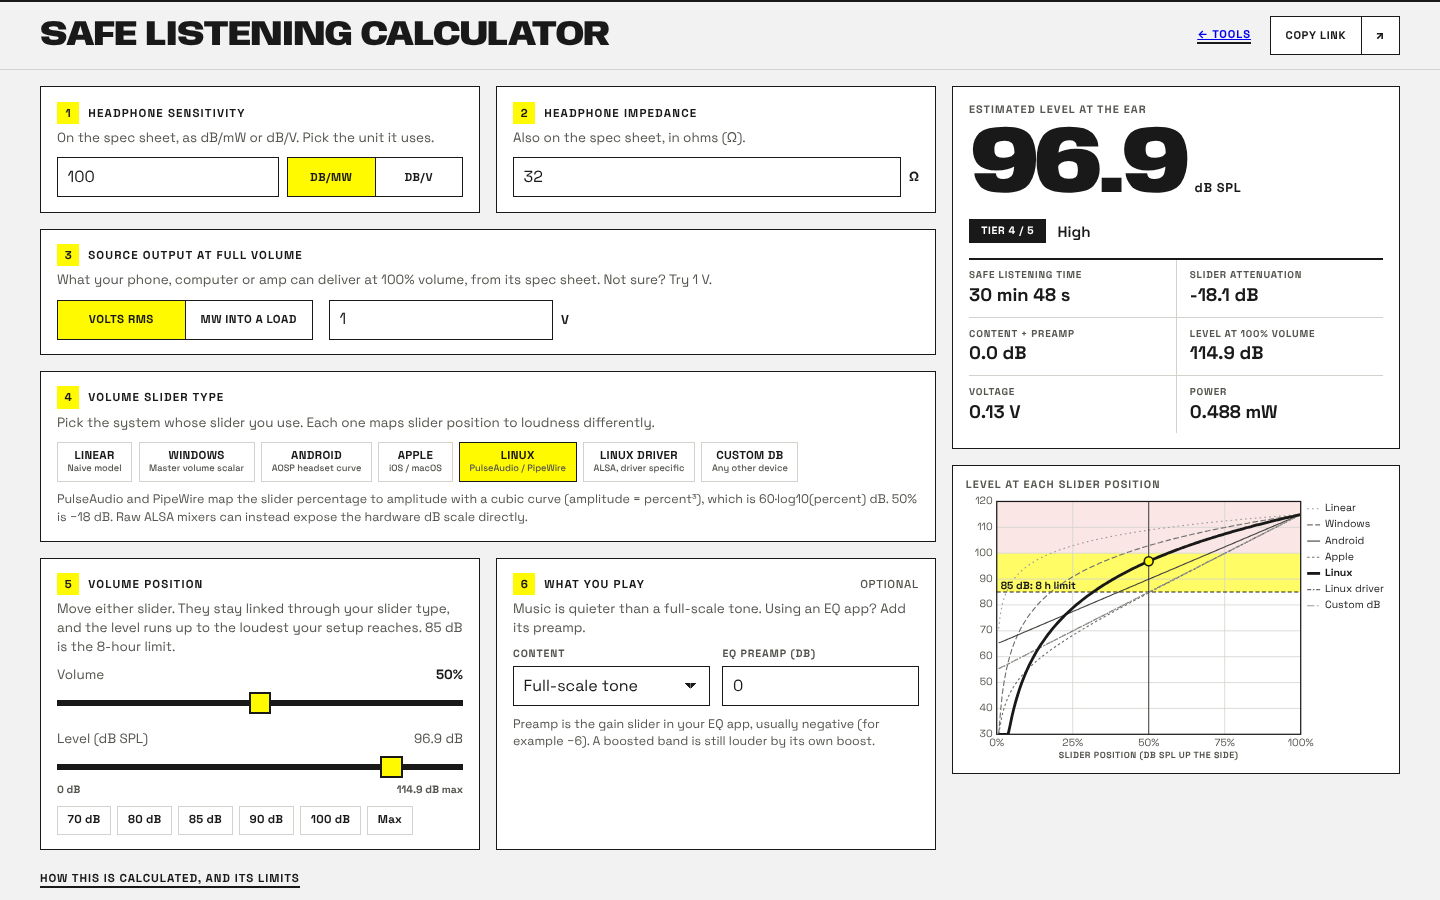
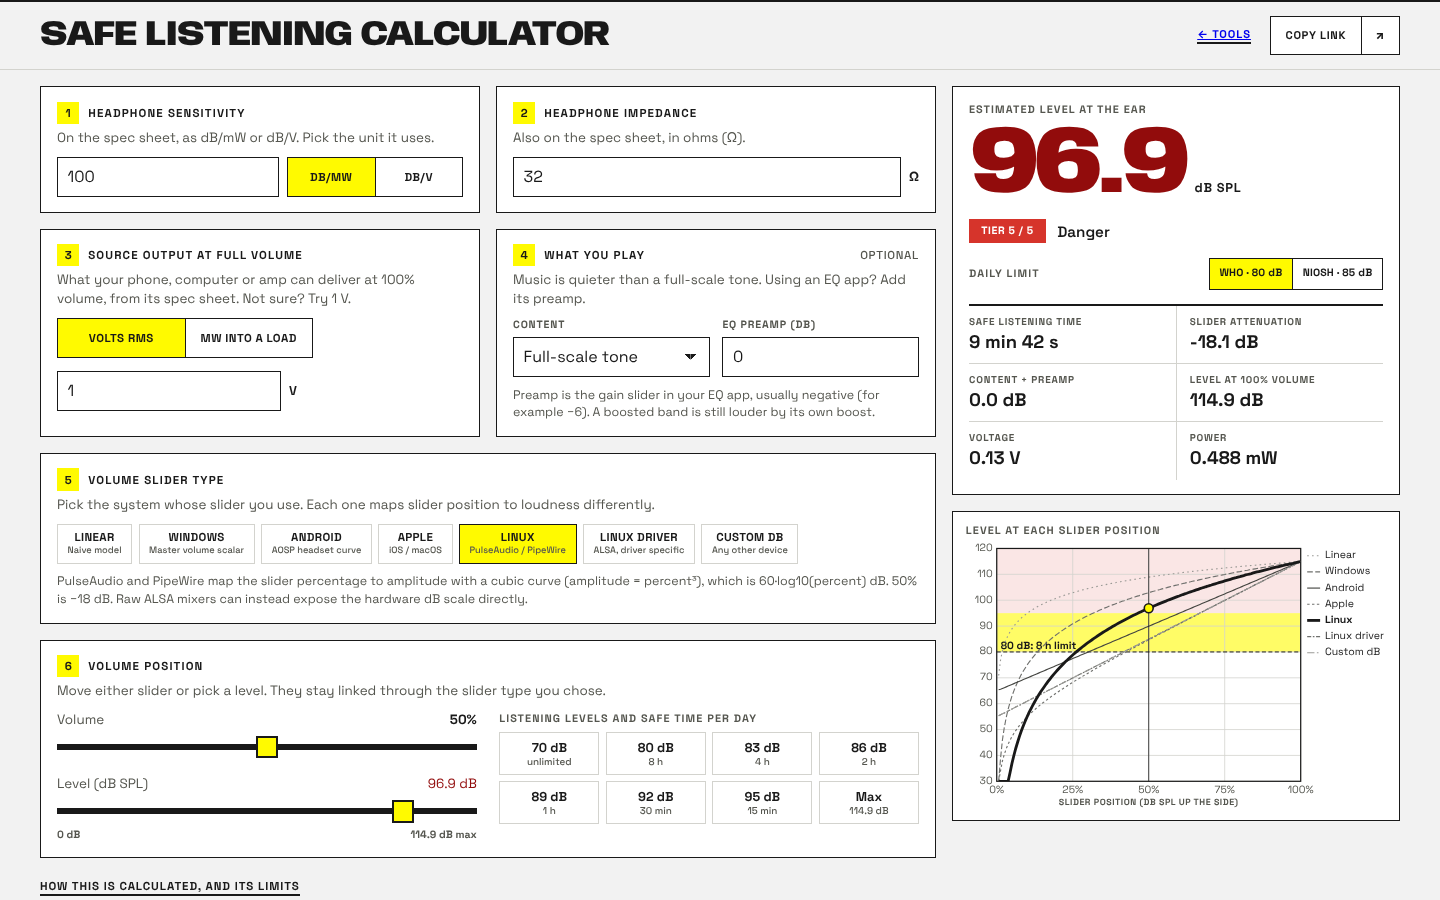
Sync Safe Listening Calculator: daily limits, level presets, risk colour

diff --git a/public/tools/safe-listening/app.js b/public/tools/safe-listening/app.js
@@ -7,7 +7,7 @@
 
   var state = {
     sens: 100, unit: 'mw', z: 32, srcMode: 'v', vout: 1, pmw: 30, load: 32,
-    curve: 'linux', pos: 0.5, range: 60, offset: 0, preamp: 0
+    curve: 'linux', pos: 0.5, range: 60, offset: 0, preamp: 0, std: 'who'
   };
 
   /* Max RMS voltage at 100% volume, from whichever form the spec sheet used. */
@@ -46,17 +46,19 @@
     if ((s = num('r', 10, 120)) !== null) state.range = s;
     if ((s = num('o', -30, 0)) !== null) state.offset = s;
     if ((s = num('pa', -30, 20)) !== null) state.preamp = s;
+    if (SA.STANDARDS[p.get('std')]) state.std = p.get('std');
   }
   function writeHash() {
     var p = new URLSearchParams({
       s: state.sens, u: state.unit, z: state.z, vm: state.vout, sm: state.srcMode, pm: state.pmw, ld: state.load,
-      c: state.curve, p: state.pos.toFixed(3), r: state.range, o: state.offset, pa: state.preamp
+      c: state.curve, p: state.pos.toFixed(3), r: state.range, o: state.offset, pa: state.preamp, std: state.std
     });
     try { history.replaceState(null, '', '#' + p.toString()); } catch (e) { /* ignore */ }
   }
 
   /* ---------- Formatting ---------- */
   function fmtTime(sec) {
+    if (sec === Infinity) return 'Unlimited';
     if (!isFinite(sec)) return '—';
     if (sec > 86400) return 'Over 24 h';
     if (sec < 10) return sec.toFixed(1) + ' s';
@@ -70,6 +72,18 @@
     if (mm === 60) { h += 1; mm = 0; }
     return h + ' h' + (mm ? ' ' + mm + ' min' : '');
   }
+  function fmtShort(sec) {
+    if (sec === Infinity) return 'unlimited';
+    if (sec >= 3600) return Math.round(sec / 360) / 10 + ' h';
+    if (sec >= 60) return Math.round(sec / 60) + ' min';
+    return Math.round(sec) + ' s';
+  }
+  /* Green when safe all day, through amber, to red at 15 dB over the daily limit. */
+  function levelColor(spl) {
+    if (!isFinite(spl)) return '';
+    return 'hsl(' + Math.round(135 * (1 - SA.risk(spl, state.std))) + ', 85%, 31%)';
+  }
+  var PRESETS = { who: [70, 80, 83, 86, 89, 92, 95], niosh: [70, 85, 88, 91, 94, 97, 100] };
   var fmt1 = function (x) { return isFinite(x) ? x.toFixed(1) : '—'; };
 
   function currentCurve() { return SA.CURVES[state.curve]; }
@@ -123,8 +137,9 @@
     var clip = el('clipPath', { id: 'plot-clip' }, svg);
     el('rect', { x: L, y: T, width: pw, height: ph }, clip);
 
-    if (yMax > 100) el('rect', { x: L, y: y(yMax), width: pw, height: y(100) - y(yMax), fill: '#d6342b', opacity: .12 }, svg);
-    if (yMax > 85) el('rect', { x: L, y: y(Math.min(100, yMax)), width: pw, height: y(85) - y(Math.min(100, yMax)), fill: '#fffa00', opacity: .6 }, svg);
+    var ref = SA.standardOf(state.std).ref, hi = ref + 15;
+    if (yMax > hi) el('rect', { x: L, y: y(yMax), width: pw, height: y(hi) - y(yMax), fill: '#d6342b', opacity: .12 }, svg);
+    if (yMax > ref) el('rect', { x: L, y: y(Math.min(hi, yMax)), width: pw, height: y(ref) - y(Math.min(hi, yMax)), fill: '#fffa00', opacity: .6 }, svg);
 
     for (var g = Math.ceil(yMin / 10) * 10; g <= yMax; g += 10) {
       el('line', { x1: L, x2: L + pw, y1: y(g), y2: y(g), class: 'grid' }, svg);
@@ -135,8 +150,8 @@
       text(svg, x(q / 100), T + ph + 15, q + '%', { 'text-anchor': 'middle', class: 'tick' });
     }
     el('rect', { x: L, y: T, width: pw, height: ph, fill: 'none', stroke: '#191919', 'stroke-width': 1.5 }, svg);
-    el('line', { x1: L, x2: L + pw, y1: y(85), y2: y(85), stroke: '#191919', 'stroke-width': 1.2, 'stroke-dasharray': '5 3' }, svg);
-    text(svg, L + 5, y(85) - 4, '85 dB: 8 h limit', { 'font-weight': 700 });
+    el('line', { x1: L, x2: L + pw, y1: y(ref), y2: y(ref), stroke: '#191919', 'stroke-width': 1.2, 'stroke-dasharray': '5 3' }, svg);
+    text(svg, L + 5, y(ref) - 4, ref + ' dB: 8 h limit', { 'font-weight': 700 });
     text(svg, L + pw / 2, H - 5, 'Slider position (dB SPL up the side)', { 'text-anchor': 'middle', class: 'axis-title' });
 
     var group = el('g', { 'clip-path': 'url(#plot-clip)', fill: 'none' }, svg);
@@ -201,9 +216,21 @@
     splSlider.value = isFinite(r.spl) ? Math.min(Math.max(r.spl, 0), top) : 0;
     $('spl-out').textContent = isFinite(r.spl) ? r.spl.toFixed(1) + ' dB' : 'Muted';
     $('spl-max-label').textContent = top.toFixed(1) + ' dB max';
-    Array.prototype.forEach.call(document.querySelectorAll('[data-spl]'), function (b) {
-      b.disabled = b.dataset.spl !== 'max' && parseFloat(b.dataset.spl) > top;
+    var presets = $('level-presets');
+    presets.textContent = '';
+    PRESETS[state.std].concat('max').forEach(function (level) {
+      var value = level === 'max' ? top : level;
+      var btn = document.createElement('button');
+      btn.type = 'button';
+      btn.dataset.spl = level;
+      var secs = SA.safeSeconds(value, state.std);
+      btn.innerHTML = '<b>' + (level === 'max' ? 'Max' : level + ' dB') + '</b><small>' +
+        (level === 'max' ? top.toFixed(1) + ' dB' : fmtShort(secs)) + '</small>';
+      btn.disabled = level !== 'max' && level > top;
+      if (isFinite(r.spl) && Math.abs(r.spl - value) < 0.3) btn.classList.add('is-active');
+      presets.appendChild(btn);
     });
+    setPressed(document.querySelectorAll('[data-std]'), function (b) { return b.dataset.std === state.std; });
     $('slider-out').textContent = Math.round(state.pos * 100) + '%' + (curve.steps ? ' (step ' + Math.round(state.pos * max) + ' of ' + max + ')' : '');
 
     $('range-field').hidden = !curve.hasRange;
@@ -219,13 +246,15 @@
     setPressed(document.querySelectorAll('[data-unit]'), function (b) { return b.dataset.unit === state.unit; });
     setPressed(document.querySelectorAll('[data-srcmode]'), function (b) { return b.dataset.srcmode === state.srcMode; });
 
-    var t = SA.tier(r.spl);
+    var t = SA.tier(r.spl, state.std);
     $('spl').textContent = isFinite(r.spl) ? r.spl.toFixed(1) : '—';
     var chip = $('tier-chip');
     chip.className = 'chip tier-' + t.n;
     chip.textContent = t.n ? 'Tier ' + t.n + ' / 5' : 'Muted';
     $('tier-text').textContent = t.name;
-    $('safe-time').textContent = isFinite(r.spl) ? fmtTime(SA.safeSeconds(r.spl)) : 'Unlimited';
+    $('safe-time').textContent = isFinite(r.spl) ? fmtTime(SA.safeSeconds(r.spl, state.std)) : 'Unlimited';
+    $('spl').style.color = levelColor(r.spl);
+    $('spl-out').style.color = levelColor(r.spl);
     $('att').textContent = isFinite(r.attenuation) ? r.attenuation.toFixed(1) + ' dB' : 'Muted';
     var adj = state.offset + state.preamp;
     $('adj').textContent = (adj > 0 ? '+' : adj < 0 ? '−' : '') + Math.abs(adj).toFixed(1) + ' dB';
@@ -276,6 +305,8 @@
       render();
     } else if (b.dataset.srcmode && b.dataset.srcmode !== state.srcMode) {
       state.srcMode = b.dataset.srcmode; render();
+    } else if (b.dataset.std) {
+      state.std = b.dataset.std; render();
     } else if (b.dataset.spl) {
       setPosFromSpl(b.dataset.spl === 'max' ? calc(1).spl : parseFloat(b.dataset.spl));
       render();

diff --git a/public/tools/safe-listening/index.html b/public/tools/safe-listening/index.html
@@ -34,7 +34,6 @@
           </div>
         </div>
       </section>
-
       <section class="card">
         <h2><i>2</i> Headphone impedance</h2>
         <p class="help">Also on the spec sheet, in ohms (Ω).</p>
@@ -43,8 +42,7 @@
           <span class="unit">Ω</span>
         </div>
       </section>
-
-      <section class="card span-2">
+      <section class="card">
         <h2><i>3</i> Source output at full volume</h2>
         <p class="help">What your phone, computer or amp can deliver at 100% volume, from its spec sheet. Not sure? Try 1 V.</p>
         <div class="row wrap">
@@ -65,38 +63,8 @@
         </div>
         <p class="note" id="derived-v"></p>
       </section>
-
-      <section class="card span-2">
-        <h2><i>4</i> Volume slider type</h2>
-        <p class="help">Pick the system whose slider you use. Each one maps slider position to loudness differently.</p>
-        <div class="filter" id="curve-buttons" role="group" aria-label="Volume slider type"></div>
-        <div class="mt" id="range-field" hidden>
-          <label class="inline">dB range below max <input id="range" type="number" inputmode="decimal" step="1" min="10" max="120" value="60"></label>
-          <p class="note" id="range-help"></p>
-        </div>
-        <p class="note curve-note" id="curve-note"></p>
-      </section>
-
       <section class="card">
-        <h2><i>5</i> Volume position</h2>
-        <p class="help">Move either slider. They stay linked through your slider type, and the level runs up to the loudest your setup reaches. 85 dB is the 8-hour limit.</p>
-        <label for="slider" class="slider-head"><span>Volume</span><output id="slider-out" for="slider">50%</output></label>
-        <input id="slider" type="range" min="0" max="100" step="1" value="50">
-        <label for="spl-slider" class="slider-head second"><span>Level (dB SPL)</span><output id="spl-out" for="spl-slider">96.9 dB</output></label>
-        <input id="spl-slider" type="range" min="0" max="114.9" step="any" value="96.9">
-        <div class="slider-ends" aria-hidden="true"><span>0 dB</span><span id="spl-max-label">max</span></div>
-        <div class="quick" role="group" aria-label="Level presets">
-          <button type="button" data-spl="70">70 dB</button>
-          <button type="button" data-spl="80">80 dB</button>
-          <button type="button" data-spl="85">85 dB</button>
-          <button type="button" data-spl="90">90 dB</button>
-          <button type="button" data-spl="100">100 dB</button>
-          <button type="button" data-spl="max">Max</button>
-        </div>
-      </section>
-
-      <section class="card">
-        <h2><i>6</i> What you play <em>optional</em></h2>
+        <h2><i>4</i> What you play <em>optional</em></h2>
         <p class="help">Music is quieter than a full-scale tone. Using an EQ app? Add its preamp.</p>
         <div class="row two">
           <label class="field">
@@ -115,6 +83,33 @@
         </div>
         <p class="note">Preamp is the gain slider in your EQ app, usually negative (for example −6). A boosted band is still louder by its own boost.</p>
       </section>
+      <section class="card span-2">
+        <h2><i>5</i> Volume slider type</h2>
+        <p class="help">Pick the system whose slider you use. Each one maps slider position to loudness differently.</p>
+        <div class="filter" id="curve-buttons" role="group" aria-label="Volume slider type"></div>
+        <div class="mt" id="range-field" hidden>
+          <label class="inline">dB range below max <input id="range" type="number" inputmode="decimal" step="1" min="10" max="120" value="60"></label>
+          <p class="note" id="range-help"></p>
+        </div>
+        <p class="note curve-note" id="curve-note"></p>
+      </section>
+      <section class="card span-2">
+        <h2><i>6</i> Volume position</h2>
+        <p class="help">Move either slider or pick a level. They stay linked through the slider type you chose.</p>
+        <div class="volume-grid">
+        <div class="vol-sliders">
+          <label for="slider" class="slider-head"><span>Volume</span><output id="slider-out" for="slider">50%</output></label>
+        <input id="slider" type="range" min="0" max="100" step="1" value="50">
+        <label for="spl-slider" class="slider-head second"><span>Level (dB SPL)</span><output id="spl-out" for="spl-slider">96.9 dB</output></label>
+        <input id="spl-slider" type="range" min="0" max="114.9" step="any" value="96.9">
+        <div class="slider-ends" aria-hidden="true"><span>0 dB</span><span id="spl-max-label">max</span></div>
+        </div>
+        <div class="vol-presets">
+          <p class="label">Listening levels and safe time per day</p>
+          <div class="levels" id="level-presets" role="group" aria-label="Listening level presets"></div>
+        </div>
+      </div>
+      </section>
     </form>
 
     <div class="results" aria-live="polite">
@@ -122,6 +117,13 @@
         <p class="label">Estimated level at the ear</p>
         <p class="spl"><b id="spl">—</b><span>dB SPL</span></p>
         <p class="tier"><span id="tier-chip" class="chip tier-1">—</span><span id="tier-text"></span></p>
+        <div class="limit">
+          <span class="label" id="limit-label">Daily limit</span>
+          <div class="toggle" role="group" aria-labelledby="limit-label">
+            <button type="button" data-std="who" class="is-active" aria-pressed="true">WHO · 80 dB</button>
+            <button type="button" data-std="niosh" aria-pressed="false">NIOSH · 85 dB</button>
+          </div>
+        </div>
         <dl class="stats">
           <div><dt>Safe listening time</dt><dd id="safe-time">—</dd></div>
           <div><dt>Slider attenuation</dt><dd id="att">—</dd></div>
@@ -146,7 +148,7 @@
         <li><b>Slider to gain.</b> The slider type turns position into an attenuation in dB. Gain = 10^(dB ÷ 20).</li>
         <li><b>Voltage and power.</b> Volts = max output voltage × gain. Power P = V² ÷ Z.</li>
         <li><b>Level.</b> SPL = sensitivity (dB/mW) + 10·log10(P in mW) + content offset. A dB/V rating is converted first: dB/mW = dB/V − 10·log10(1000 ÷ Z).</li>
-        <li><b>Safe time.</b> NIOSH allows 85 dBA for 8 hours and halves the time every 3 dB above: T = 8 h ÷ 2^((L − 85) ÷ 3).</li>
+        <li><b>Safe time.</b> Both limits halve the daily time for every 3 dB above their reference level: T = 8 h ÷ 2^((L − reference) ÷ 3). WHO / ITU treats 80 dBA for 40 hours a week as 8 hours a day at 80 dB. NIOSH allows 85 dBA for 8 hours. At 70 dB and below there is no time limit (the EPA's level for protecting hearing over a lifetime). WHO is the stricter default.</li>
       </ol>
       <ul>
         <li>It uses spec-sheet figures. It is a model, not a measurement. Only a calibrated meter or ear coupler measures the real level.</li>

diff --git a/public/tools/safe-listening/curves.js b/public/tools/safe-listening/curves.js
@@ -117,24 +117,47 @@
     return { attenuation: att, sensMw: sensMw, gain: gain, volts: volts, powerMw: powerMw, spl: spl };
   }
 
-  /* NIOSH: 85 dBA for 8 h, halving every 3 dB. Returns seconds. */
-  function safeSeconds(spl) {
-    return 8 * 3600 / Math.pow(2, (spl - 85) / 3);
+  /*
+   * Daily exposure limits. Both halve the allowed time for every 3 dB above the reference level.
+   *  who:   80 dBA for 8 h a day (the WHO/ITU 40 h a week, spread over five days)
+   *  niosh: 85 dBA for 8 h
+   * At or below UNLIMITED_DB (the EPA lifetime level) there is no time limit.
+   */
+  var STANDARDS = {
+    who: { id: 'who', label: 'WHO / ITU', ref: 80, note: '80 dB for 8 h a day (40 h a week)' },
+    niosh: { id: 'niosh', label: 'NIOSH', ref: 85, note: '85 dB for 8 h a day' }
+  };
+  var UNLIMITED_DB = 70;
+
+  function standardOf(std) { return STANDARDS[std] || STANDARDS.who; }
+
+  /* Safe listening time in seconds per day, or Infinity when there is no limit. */
+  function safeSeconds(spl, std) {
+    if (spl <= UNLIMITED_DB) return Infinity;
+    return 8 * 3600 / Math.pow(2, (spl - standardOf(std).ref) / 3);
   }
 
-  function tier(spl) {
+  function tier(spl, std) {
     if (!isFinite(spl)) return { n: 0, name: 'Muted' };
-    if (spl <= 80) return { n: 1, name: 'Comfortable' };
-    if (spl <= 85) return { n: 2, name: 'At the limit' };
-    if (spl <= 94) return { n: 3, name: 'Caution' };
-    if (spl <= 100) return { n: 4, name: 'High' };
+    var ref = standardOf(std).ref;
+    if (spl <= UNLIMITED_DB) return { n: 1, name: 'Safe all day' };
+    if (spl <= ref) return { n: 2, name: 'Within the daily limit' };
+    if (spl <= ref + 9) return { n: 3, name: 'Caution' };
+    if (spl <= ref + 15) return { n: 4, name: 'High' };
     return { n: 5, name: 'Danger' };
+  }
+
+  /* 0 (safe, green) to 1 (dangerous, red). Green up to UNLIMITED_DB, red at 15 dB over the limit. */
+  function risk(spl, std) {
+    if (!isFinite(spl)) return 0;
+    return clamp((spl - UNLIMITED_DB) / (standardOf(std).ref + 15 - UNLIMITED_DB), 0, 1);
   }
 
   var api = {
     CURVES: CURVES, ORDER: ORDER, ANDROID_HEADSET: ANDROID_HEADSET,
     attenuationDb: attenuationDb, volumeFromDb: volumeFromDb, sensitivityPerMw: sensitivityPerMw,
-    compute: compute, safeSeconds: safeSeconds, tier: tier, clamp: clamp
+    compute: compute, safeSeconds: safeSeconds, tier: tier, risk: risk, standardOf: standardOf,
+    STANDARDS: STANDARDS, UNLIMITED_DB: UNLIMITED_DB, clamp: clamp
   };
 
   if (typeof module !== 'undefined' && module.exports) module.exports = api;

diff --git a/public/tools/safe-listening/style.css b/public/tools/safe-listening/style.css
@@ -187,6 +187,24 @@ input[type="range"]::-moz-range-thumb { width: 1.2rem; height: 1.2rem; border: 2
 .slider-ends { display: flex; justify-content: space-between; margin-top: -.2rem; font-size: .66rem; font-weight: 700; color: var(--muted); }
 .quick button:disabled { cursor: not-allowed; opacity: .35; }
 .quick button:disabled:hover { background: transparent; border-color: var(--line); }
+.levels { display: grid; grid-template-columns: repeat(4, minmax(0, 1fr)); gap: .4rem; margin-top: .6rem; }
+.levels button { display: grid; gap: .05rem; border: 1px solid var(--line); background: transparent; padding: .4rem .3rem; cursor: pointer; text-align: center; line-height: 1.2; }
+.levels button b { font-size: .8rem; }
+.levels button small { font-size: .62rem; font-weight: 500; color: var(--muted); }
+.levels button:hover { border-color: var(--ink); background: var(--panel); }
+.levels button.is-active { border-color: var(--ink); background: var(--signal); }
+.levels button.is-active small { color: var(--ink); }
+.levels button:disabled { cursor: not-allowed; opacity: .35; }
+.levels button:disabled:hover { border-color: var(--line); background: transparent; }
+.limit { display: flex; align-items: center; justify-content: space-between; gap: .8rem; margin-bottom: .9rem; }
+.limit .label { margin: 0; }
+.limit .toggle { flex: 0 0 auto; }
+.limit .toggle button { min-height: 2rem; font-size: .66rem; }
+.volume-grid { display: grid; grid-template-columns: minmax(0, 1fr) minmax(0, 1fr); gap: 1.4rem; align-items: start; }
+.vol-presets .label { margin-bottom: 0; }
+.levels { margin-top: .4rem; }
+.limit .toggle button { text-transform: none; white-space: nowrap; letter-spacing: .02em; }
+@media (max-width: 44rem) { .volume-grid { grid-template-columns: 1fr; } }
 
 .back { margin-right: .4rem; font-size: .7rem; font-weight: 700; letter-spacing: .08em; text-transform: uppercase; border-bottom: 2px solid var(--ink); }
 .back:hover { background: var(--signal); }
